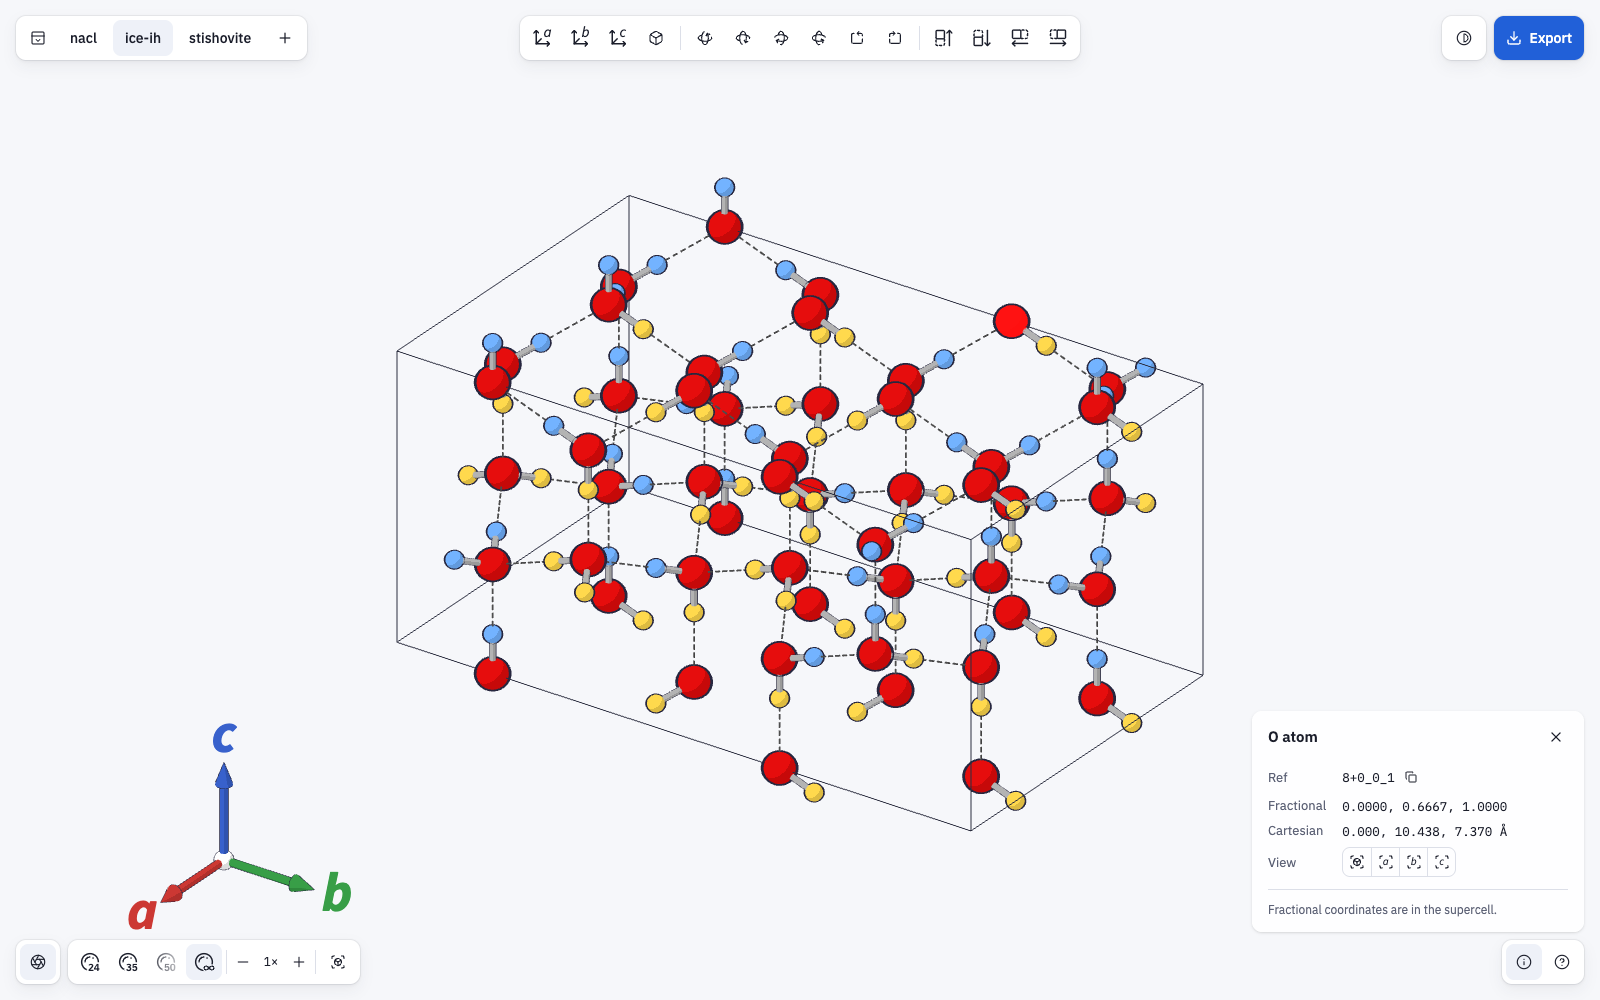
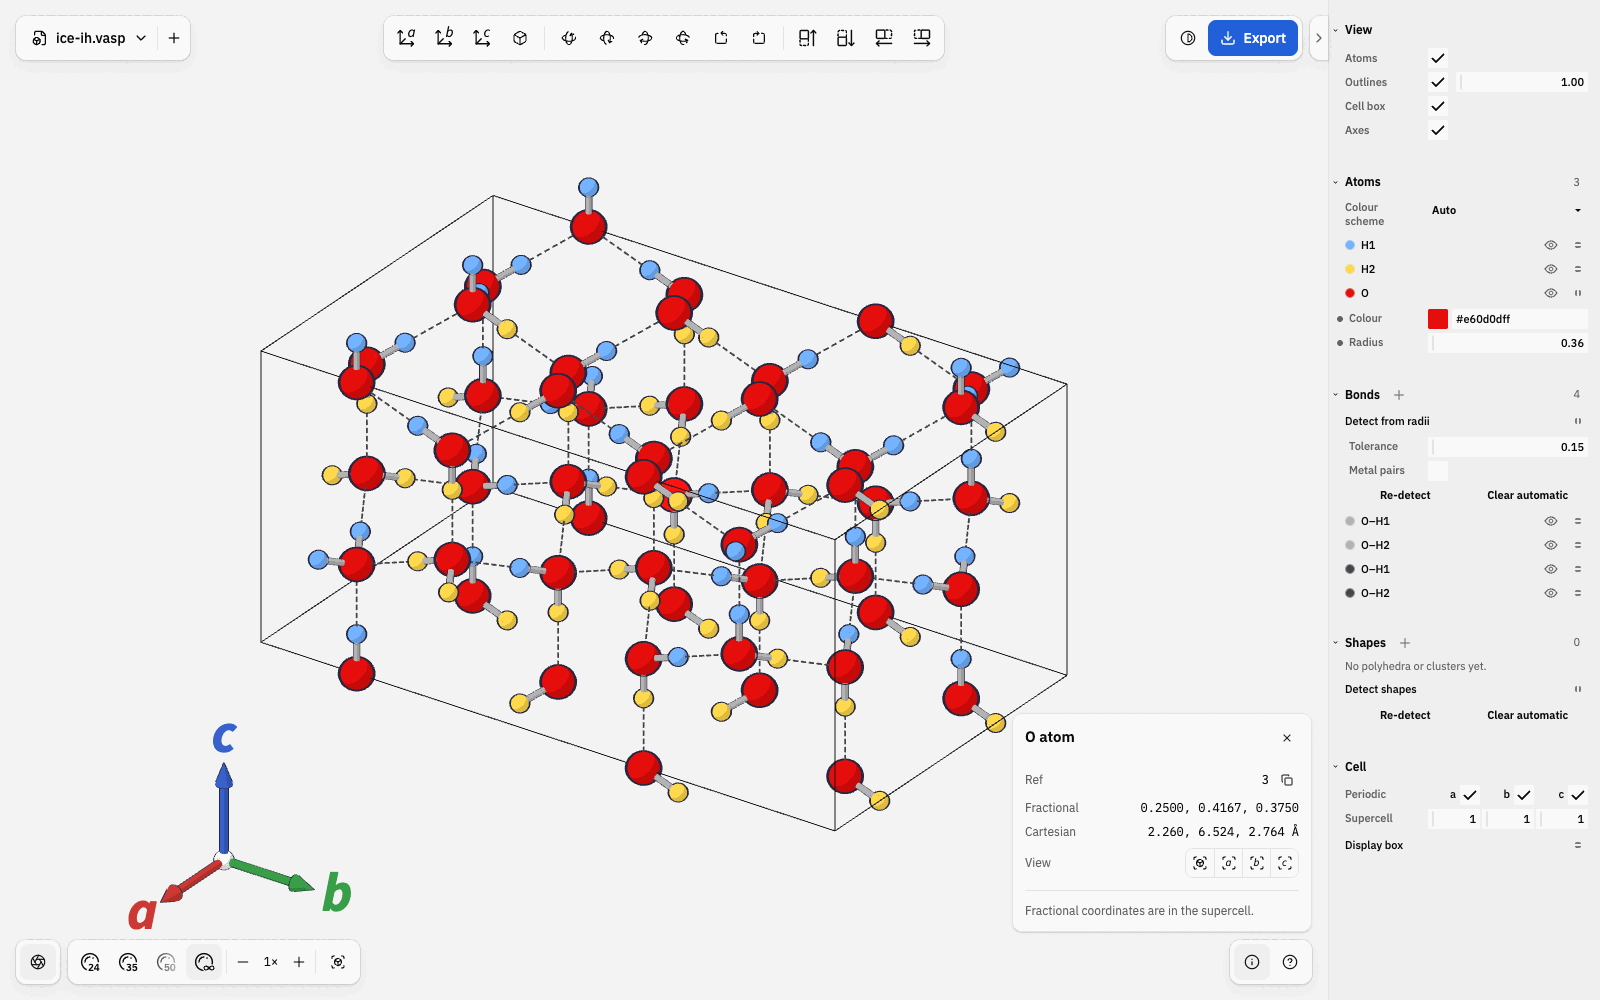
docs: the viewer pictures show the dock and the new islands
Both web-viewer pictures are retaken from the current UI, by scripts/render_readme_shots.mjs (headless Chrome over the
DevTools protocol, no Blender). The three README examples open as files (nacl.vasp, ice-ih.vasp, stishovite.vasp, each
dropped with its config.toml from the served site), ice Ih's oxygen atom is selected so the details card shows, light
theme, default camera.

The desktop picture is 1600x1000 at 1x with the dock open: its View section and the Atoms folders are in view, and the
file menu shows the three files. The phone picture is an iPhone viewport (393x852 at 3x) in a plain CSS frame drawn in
Chrome: a black bezel, a status bar with the Dynamic Island, and a Safari-style address bar under the page. Both are
quantised to 256 colours (ImageMagick): the desktop is 66 KB, the phone 144 KB.

The README alt texts name the dock, the file menu and the card. The README scripts list and CLAUDE.md's examples rule
name the script. The Blender renders are unchanged.

Claude-Session: https://claude.ai/code/session_018rUKbAzS523y5aBDw6LKYx
(cherry picked from commit 0693f3a8b16d422e15094bac5bdd92037cb2e38a)

diff --git a/README.md b/README.md
@@ -16,8 +16,8 @@ gemmy render --scene scene.json --look.preset 3to2d --out picture.png
 Try the web viewer on the examples: **https://chazeon.github.io/gemmy/**
 
 <p align="center">
-  <img src="docs/images/viewer-desktop.png" height="380" alt="The web viewer on a desktop browser: the three examples as tabs, ice Ih with an oxygen atom selected and its info card, the axis triad, the lens row and the toolbar">
-  <img src="docs/images/viewer-phone.png" height="380" alt="The web viewer on a phone: ice Ih with an oxygen atom selected and its info card, in a phone frame">
+  <img src="docs/images/viewer-desktop.png" height="380" alt="The web viewer on a desktop browser: the file menu with the three examples (ice-ih.vasp shown), ice Ih with an oxygen atom selected and its details card, and the dock open on the right with its View section and Atoms folders">
+  <img src="docs/images/viewer-phone.png" height="380" alt="The web viewer on a phone, in a phone frame: ice Ih with an oxygen atom selected and its details card, and the address bar below the page">
 </p>
 
 Blender renders of the examples (`3to2d` look):
@@ -74,6 +74,7 @@ the browser renders the same in Blender.
 gemmy serve examples/nacl/config.toml examples/ice-ih/config.toml examples/stishovite/config.toml  # all three, as tabs
 cd examples/stishovite && GEMMY="uv run gemmy" OUT=/tmp/stishovite ./render.sh                     # Blender
 scripts/render_examples.sh    # re-render the README pictures into docs/images/
+scripts/render_readme_shots.mjs  # re-take the two web-viewer pictures (headless Chrome, no Blender)
 scripts/build_site.sh         # the examples as a static site in site/
 scripts/update_pages.sh       # the same site, committed to the gh-pages branch
 ```

diff --git a/CLAUDE.md b/CLAUDE.md
@@ -83,7 +83,7 @@ Import rules are enforced by `tests/test_import_boundaries.py` (a table of rules
   Committed examples (`examples/<name>/`) are public structures: POSCAR, `config.toml` + `config.json` (kept equal by
   a test), README, `render.sh` and `gallery.json` (title and description; the hosted front page's start screen lists
   them, `gemmy view --hosted --gallery examples`, scripts/build_site.sh); no scene.json. Their small README pictures live in `docs/images/`, made by
-  `scripts/render_examples.sh`. `tests/test_examples.py` compiles them, so keep configs current when keys change.
+  `scripts/render_examples.sh`; the two web-viewer pictures by `scripts/render_readme_shots.mjs` (headless Chrome, no Blender). `tests/test_examples.py` compiles them, so keep configs current when keys change.
 - Do not push or merge unless asked.
 
 ## Workflow
